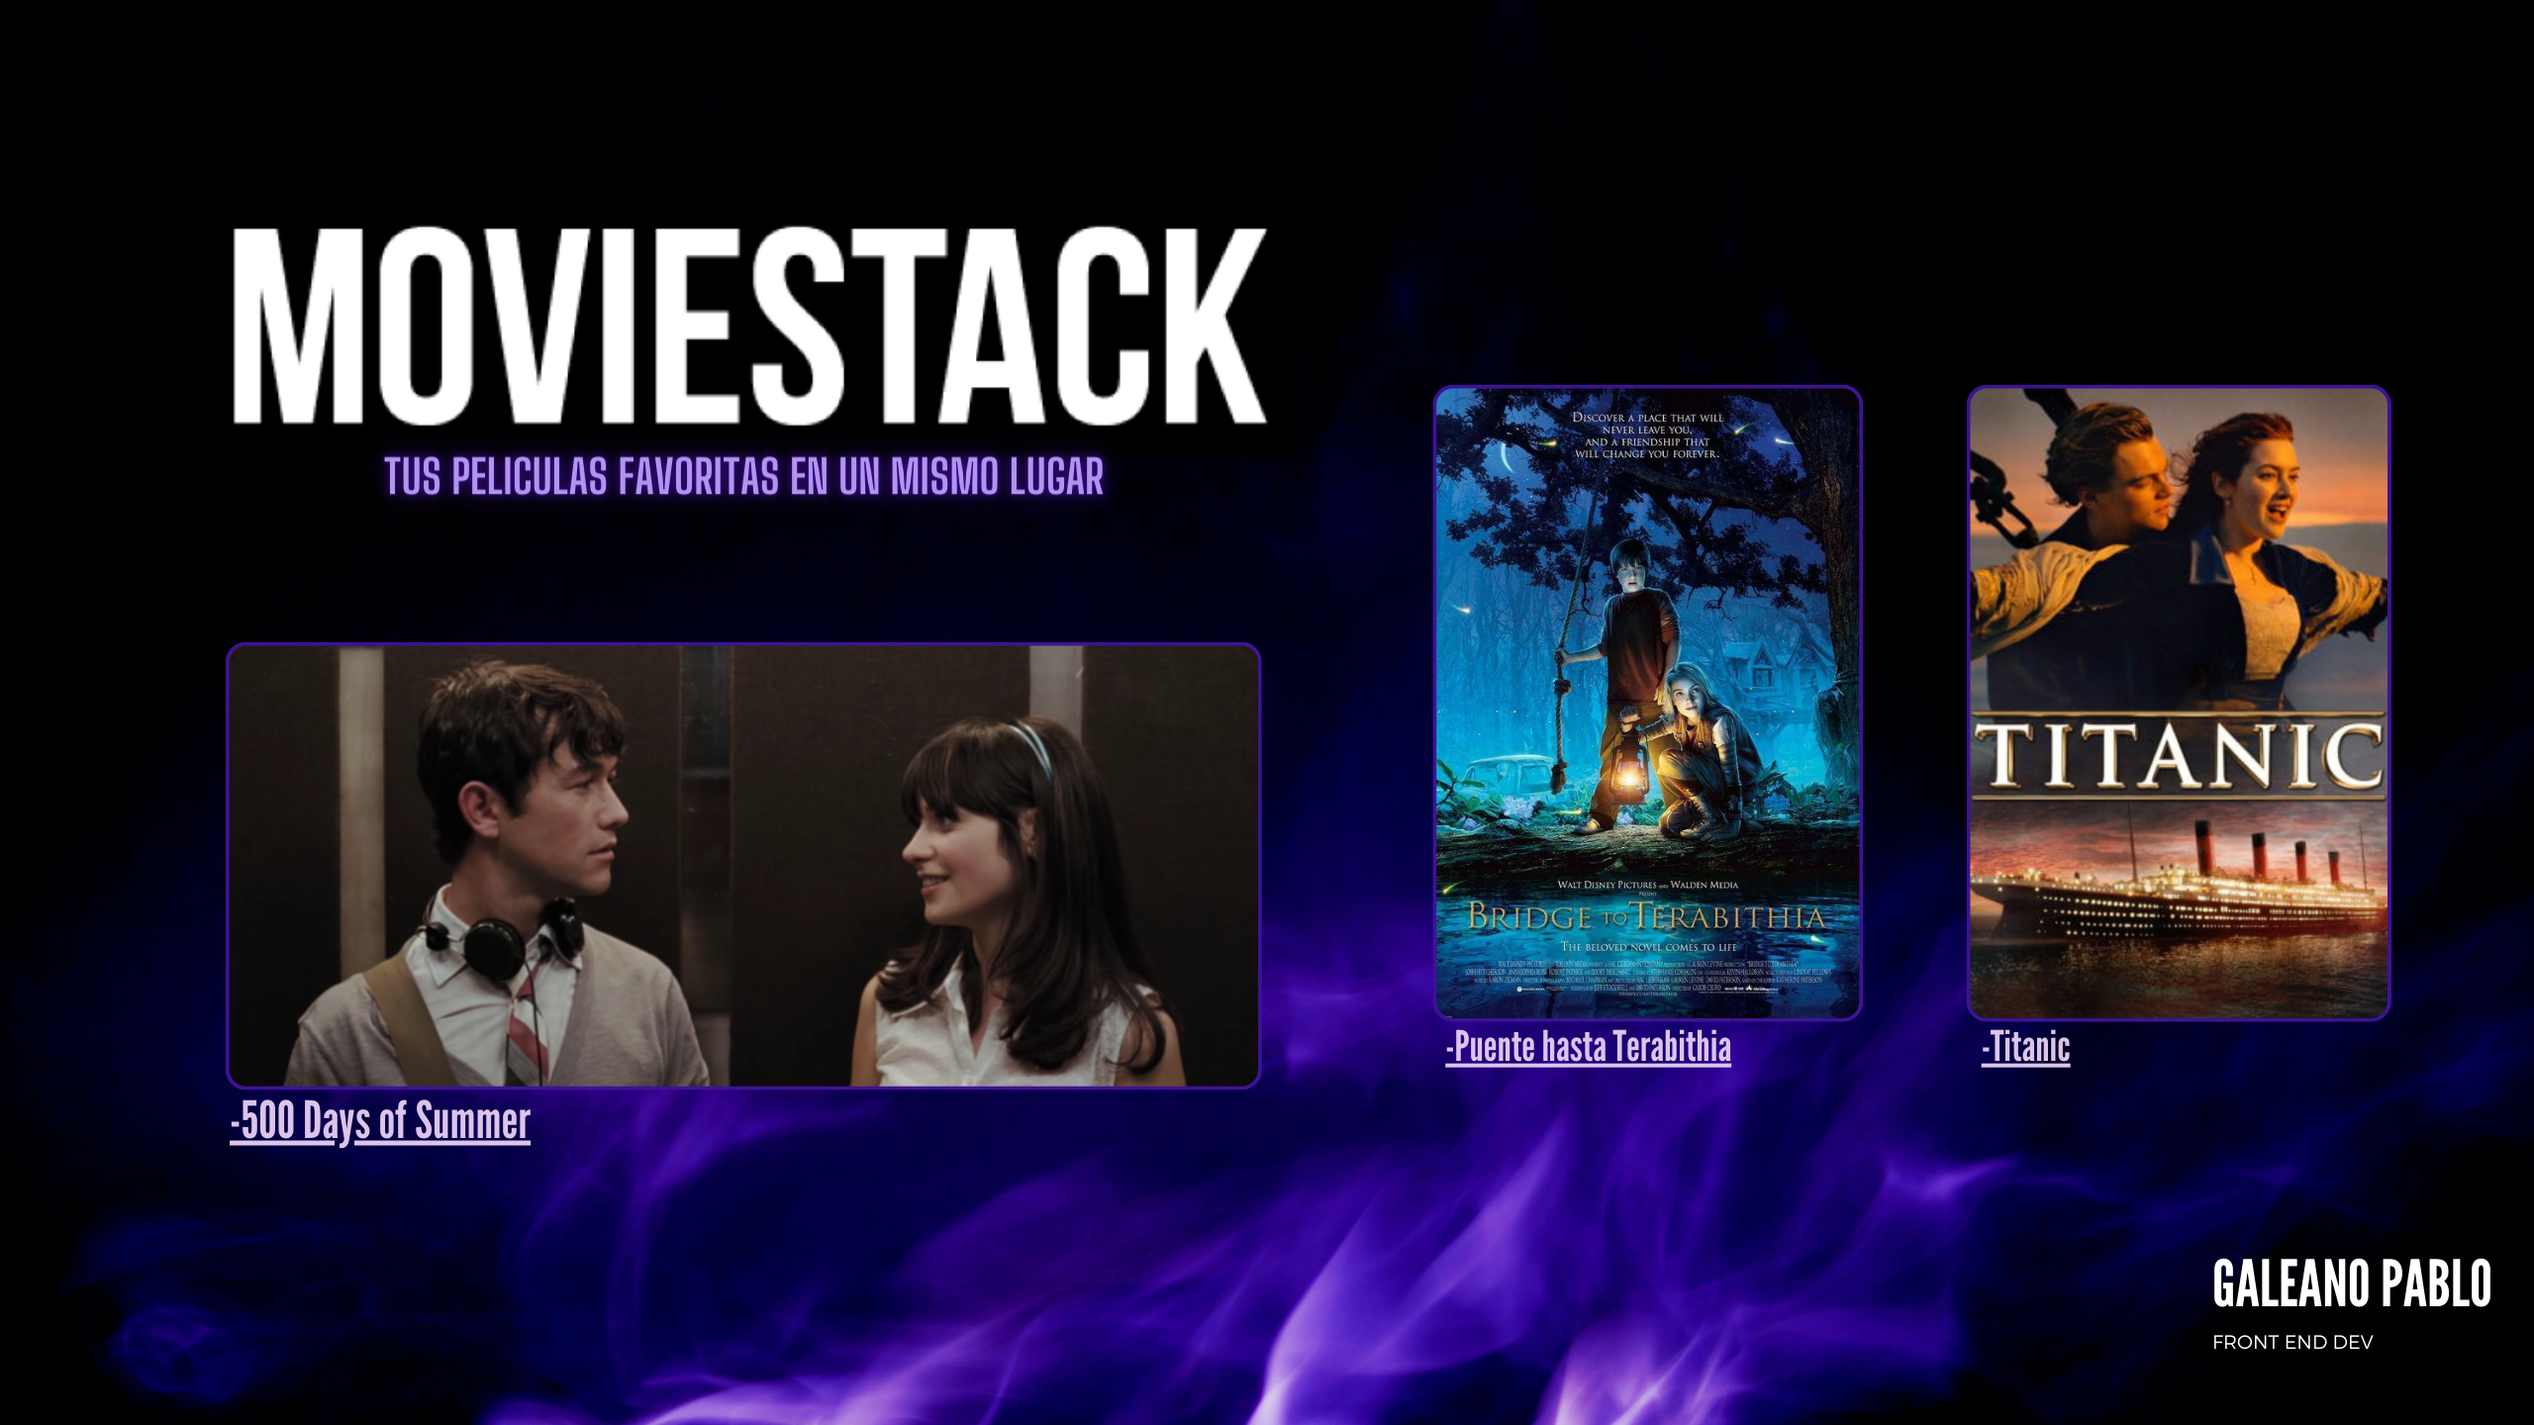
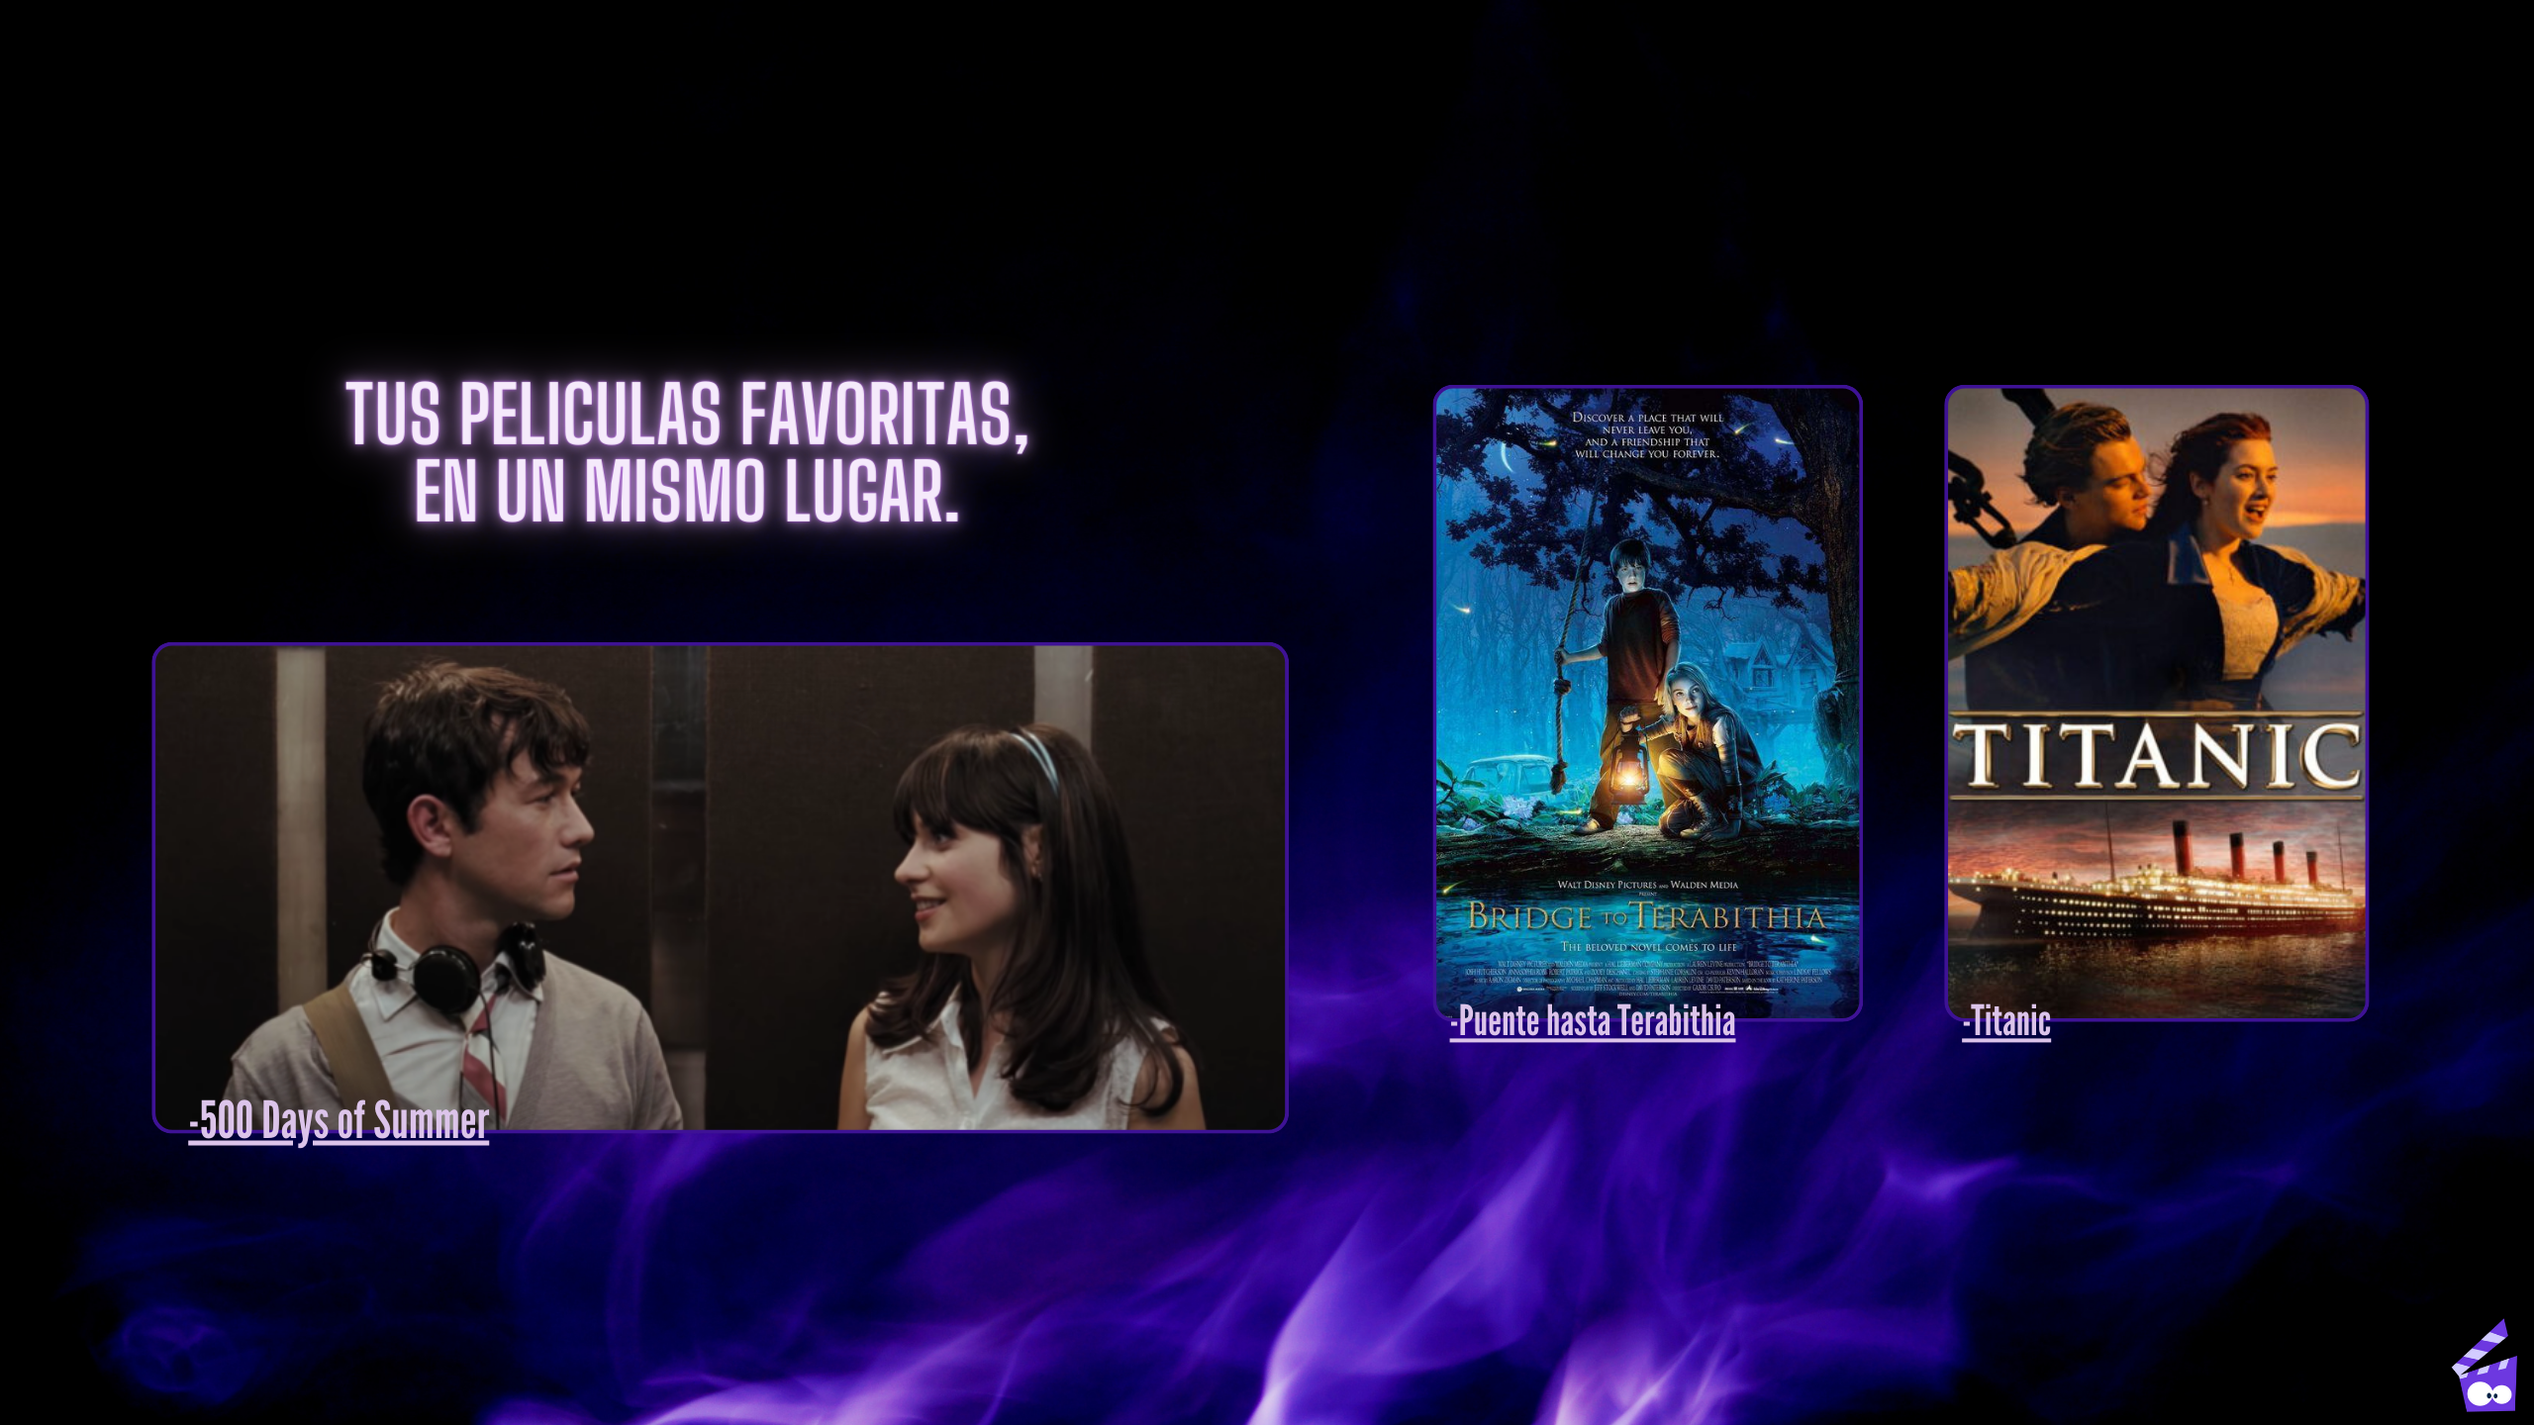
sprint 1 javascript moviestack - home y movies terminado, responsive

diff --git a/index.html b/index.html
@@ -1,5 +1,6 @@
 <!DOCTYPE html>
 <html lang="en">
+
 <head>
     <meta charset="UTF-8">
     <meta name="viewport" content="width=device-width, initial-scale=1.0">
@@ -8,41 +9,73 @@
     <link rel="shortcut icon" type="image/x-icon" href="./assets/images/Moviestack_favicon.png" />
     <title>Home</title>
 </head>
+
 <body>
-    <header class="md:fixed md:w-full bg-black h-[130px] xl:py-3">
-        <div class="md:flex md:justify-center">
-            <div class="flex w-[60%] xl:h-full">
-                <img src="./assets/images/Moviestack_isotipo.png" class="w-[80px]" alt="">
-                <img src="./assets/images/Moviestack_logotipo2.png" class="w-[500px]" alt="">
+    <header class="flex gap-5 sm:fixed w-full lg:h-[120px] sm:py-3 border-b-2 border-b-[#242424] bg-black">
+        <div class="flex flex-wrap content-center sm:w-[75%] sm:justify-center lg:justify-between m-auto">
+            <div class="flex items-center xl:h-full pr-5">
+                <a href="./index.html"><img src="./assets/images/Moviestack_isotipo.png" class="w-[80px] m-auto"
+                        alt=""></a>
+                <a href="./index.html"><img src="./assets/images/Moviestack_logotipo2.png"
+                        class="hidden sm:block w-[300px] m-auto" alt=""></a>
             </div>
-            <nav class="flex text-white items-center gap-10">
-                <a href="#">HOME</a>
-                <a href="./movies.html">MOVIES</a>
-                <a href="">FAVS</a>
+            <nav class="flex texto-blanco items-center gap-10">
+                <a href="#" class="sm:p-2 text-xl border-2 rounded-l border-[#242424] bg-[#242424] hover:p-[0.45rem]">HOME</a>
+                <a href="./movies.html" class="sm:p-2 text-xl border-2 rounded-l border-[#242424] hover:bg-[#18181e] hover:p-[0.45rem]">MOVIES</a>
+                <a href="#" class="sm:p-2 text-xl border-2 rounded-l border-[#242424] hover:bg-[#18181e] hover:p-[0.45rem]">FAVS</a>
             </nav>
         </div>
     </header>
 
     <main>
-        <div class="flex justify-center bg-black">
-            <div class="xl:w-[80%] xl:m-auto xl:px-5">
-                <img class="w-full" src="./assets/images/banner-aesthetic1.png" alt="">
-                    <p class="text-white">Lorem ipsum dolor sit amet consectetur, adipisicing elit. Impedit aspernatur, asperiores hic tenetur eligendi quasi, labore quae dolorem aperiam voluptate alias magnam nobis quisquam facilis explicabo velit ipsum expedita harum.
-                    Odio officia ex consequuntur velit aspernatur quisquam voluptates, asperiores minima? Expedita facilis totam enim? Provident fugiat maiores, reprehenderit sapiente modi eveniet facilis placeat numquam. Ratione dolores facilis illum temporibus delectus?
-                    Minus iste quia facilis dolor voluptate illo ea tempore illum asperiores! Ratione explicabo quibusdam ipsum ducimus perferendis labore atque, unde praesentium maxime error dolorem laudantium voluptates cupiditate itaque ad blanditiis.
-                    Asperiores quidem quos optio doloremque tempora maxime dolores odio corrupti deserunt doloribus, placeat eos eum recusandae! Ad molestiae impedit quisquam accusamus, tempora iusto quasi repudiandae reiciendis dicta. Animi, maxime et.
-                    Iure, voluptatibus minima debitis deleniti perspiciatis reiciendis nemo dolore quia eum, libero tempora provident dolor enim. Sit fugiat pariatur odit dignissimos, deserunt itaque, eligendi corporis quasi quos recusandae minima laudantium.
-                    Velit, vero maiores soluta quos at, ipsam ipsum distinctio aliquid, dicta molestias eaque deserunt autem iusto! Tempore mollitia ab harum eius inventore, beatae fugiat impedit et eligendi, dolore quis vero!
-                    Temporibus ipsa necessitatibus amet ratione aliquam ab maiores at est praesentium et. Eligendi, autem vel. Explicabo tempore iusto corporis, reiciendis velit voluptas ratione veritatis, omnis aperiam minus facere maiores illum!
-                    Nostrum architecto officiis sit laudantium consequuntur quo perferendis ducimus, dolores, voluptates, reiciendis quae aliquam distinctio? Ea placeat, quam ab fuga dolorum repellat recusandae molestias aliquid illo est labore, fugit sit!
-                    Voluptatibus reiciendis consequuntur delectus quod error dolorem voluptatum, atque excepturi inventore eum nisi vel modi repellendus animi aspernatur dignissimos debitis optio, tenetur explicabo iste fuga molestiae quibusdam. Similique, id ratione?
-                    Recusandae autem facilis impedit numquam reiciendis expedita ut voluptas aliquid quas, perferendis atque soluta distinctio, libero placeat? Nihil delectus repudiandae, facere natus magnam quam obcaecati excepturi incidunt, cum veniam asperiores.</p>
+        <div class="flex flex-col justify-center bg-[#09090b]">
+            <div class="bannerxl">
+                <img class="hidden xl:block w-full pt-[100px] lg:pt-[px]" src="./assets/images/bannerxl.png" alt="">
+            </div>
+            <div class="xl:w-[80%] xl:m-auto">
+                <img class="hidden  w-full pt-[100px] sm:block xl:hidden lg:pt-[20px]"
+                    src="./assets/images/banner-aesthetic.png" alt="">
+                <img class="sm:hidden" src="./assets/images/banner-mobile.png" alt="">
+                <div class="p-3 bg-[#1a1a1f] my-5">
+                    <p class="texto-blanco py-3 text-center m-auto w-[80%]">En el vasto universo del entretenimiento
+                        cinematográfico, una página web dedicada a películas emerge como un faro para los amantes del
+                        séptimo arte. Esta plataforma se erige como un santuario digital donde los cinéfilos pueden
+                        explorar un extenso catálogo de filmes que abarcan géneros, épocas y culturas. </p>
+                    <p class="texto-blanco py-4 text-center m-auto w-[80%]">Cada película es
+                        meticulosamente catalogada, proporcionando detalles que incluyen su género específico para que
+                        los usuarios puedan encontrar rápidamente lo que desean ver. Además, se ofrece una sinopsis
+                        concisa de cada película, proporcionando un vistazo intrigante a su trama y personajes
+                        principales. La fecha de lanzamiento de cada película también se presenta claramente,
+                        permitiendo a los espectadores contextualizarla en el tiempo y comprender su relevancia
+                        histórica. Asimismo, cada película cuenta con un índice de popularidad, que refleja su nivel de
+                        demanda y relevancia dentro de la comunidad de cinéfilos. Pero eso no es todo, la página también
+                        muestra tanto la valoración de la crítica como la de la audiencia, ofreciendo una visión
+                        completa de cómo ha sido recibida la película por expertos y espectadores por igual. Con estos
+                        datos detallados y una experiencia de navegación intuitiva, esta página se convierte en el
+                        destino ideal para aquellos que buscan descubrir nuevas películas y explorar el fascinante mundo
+                        del cine.</p>
+                </div>
+            </div>
+            <div class="flex flex-wrap gap-5 justify-around pb-5 px-10 sm:px-[140px]">
+                <div>
+                    <a href="./movies.html"><img class="w-[60%] md:w-[80%] m-auto hover:opacity-60 md:hover:w-[79%]"
+                            src="./assets/images/ver-catalogo.png" alt="ver catalogo"></a>
+                </div>
+                <div>
+                    <a href="#"><img class="w-[60%] md:w-[80%] m-auto hover:opacity-60 md:hover:w-[79%]" src="./assets/images/peliculas-favoritas.png"
+                            alt=""></a>
+                </div>
             </div>
         </div>
     </main>
-
+    <footer>
+        <div class="bg-black texto-blanco sm:h-[100px]">
+            <h2 class="p-10 text-center border-t-2 border-t-[#242424]">Galeano Pablo - Mindhub ©</h2>
+        </div>
+    </footer>
 
     <script src="./data.js"></script>
     <script src="./movies.js"></script>
 </body>
+
 </html>

diff --git a/movies.html b/movies.html
@@ -3,25 +3,39 @@
 <head>
     <meta charset="UTF-8">
     <meta name="viewport" content="width=device-width, initial-scale=1.0">
-    <link rel="stylesheet" href="./style.css">
+    <link rel="stylesheet" href="./assets/styles/style.css">
     <script src="https://cdn.tailwindcss.com"></script>
     <link rel="icon" sizes="16x16 32x32 48x48" type="image/png" href="./assets/Moviestack_favicon.png" />
     <title>Movies</title>
 </head>
-<body>
-    <header class="md:fixed md:w-full bg-black h-[130px] xl:py-3">
-        <div class="md:flex md:justify-center">
-            <div class="flex w-[60%] xl:h-full">
-                <img src="./assets/images/Moviestack_isotipo.png" class="w-[80px]" alt="">
-                <img src="./assets/images/Moviestack_logotipo2.png" class="w-[500px]" alt="">
+<body class="flex flex-col"><div></div>
+    <header class="flex gap-5 w-full lg:h-[120px] sm:py-3 border-b-2 border-b-[#242424] bg-black">
+        <div class="flex flex-wrap content-center sm:w-[75%] sm:justify-center lg:justify-between m-auto">
+            <div class="flex items-center xl:h-full pr-5">
+                <a href="./index.html"><img src="./assets/images/Moviestack_isotipo.png" class="w-[80px] m-auto" alt=""></a>
+                <a href="./index.html"><img src="./assets/images/Moviestack_logotipo2.png" class="hidden sm:block w-[300px] m-auto" alt=""></a>
             </div>
-            <nav class="flex text-white items-center gap-10">
-                <a href="./index.html">HOME</a>
-                <a href="#">MOVIES</a>
-                <a href="">FAVS</a>
+            <nav class="flex texto-blanco items-center gap-10">
+                <a href="./index.html" class="sm:p-2 text-xl border-2 rounded-l border-[#242424] hover:bg-[#18181e]">HOME</a>
+                <a href="#" class="sm:p-2 text-xl border-2 rounded-l border-[#242424] bg-[#242424]">MOVIES</a>
+                <a href="#" class="sm:p-2 text-xl border-2 rounded-l border-[#242424] hover:bg-[#18181e]">FAVS</a>
             </nav>
         </div>
     </header>
+    <main class="bg-[#09090b]">
+        <div>
+            <img class="opacity-80" src="./assets/images/banner-movies.png" alt="">
+        </div>
+        <div id="contenedor-main" class="flex flex-wrap gap-10 justify-center py-5">
+
+        </div>
+    </main>
+
+    <footer>
+        <div class="bg-black texto-blanco sm:h-[100px]">
+            <h2 class="px-10 py-5 text-center border-t-2 border-t-[#242424]">Galeano Pablo - Mindhub ©</h2>
+        </div>
+    </footer>
 
     <script src="./data.js"></script>
     <script src="./movies.js"></script>

diff --git a/movies.js b/movies.js
@@ -1,0 +1,36 @@
+const main = document.getElementById('contenedor-main')
+
+function crearTarjeta(pelicula) {
+    const article = document.createElement("article")
+    article.className = "flex flex-col gap-3 w-10/12 p-5 md:w-5/12 xl:w-1/5 border-solid border-4 rounded-3xl bg-[#1a1a1f] border-black text-[#dcdcdc] shadow-[0px_5px_10px_-2px_rgb(0,0,0)]"
+    
+    const img = document.createElement("img")
+    img.className = "h-52 w-auto object-fit rounded-t-xl"
+    img.setAttribute("src", pelicula.image)
+    img.setAttribute("alt",`Imagen de ${pelicula.name}`)
+
+    const h2 = document.createElement("h2")
+    h2.className = "font-bold"
+    h2.textContent = pelicula.title
+
+    const h3 = document.createElement("h3")
+    h3.className = "font-bold"
+    h3.textContent = pelicula.tagline
+
+
+    const p = document.createElement("p")
+    p.className = "line-clamp-6"
+    p.textContent = pelicula.overview
+
+    article.append(img, h2, h3, p)
+    return article
+}
+
+function imprimirTarjeta(listaPeliculas, elemento) {
+    for (const peliculaIterada of listaPeliculas) {
+        let card = crearTarjeta(peliculaIterada)
+        elemento.appendChild(card)
+    }
+}
+
+imprimirTarjeta(peliculas, main)

diff --git a/assets/styles/style.css b/assets/styles/style.css
@@ -1,0 +1,34 @@
+@import url('https://fonts.googleapis.com/css2?family=Open+Sans:wght@300;700&display=swap');
+
+*{
+    font-family: 'Open Sans', sans-serif;
+    padding: 0;
+    margin: 0;
+    box-sizing: border-box;
+    transition: .2s linear;
+}
+
+html{
+    scroll-padding-top: 9rem;
+    scroll-behavior: smooth;
+    background-color: #09090b;
+
+}
+
+html::-webkit-scrollbar{
+    width: 0.6rem;
+}
+
+html::-webkit-scrollbar-track{
+    background: transparent;
+}
+
+html::-webkit-scrollbar-thumb{
+    background-color: #252525;
+    border-radius: 5rem;
+}
+
+.texto-blanco{
+    color:#dbdbdb;
+    /* background-color: #1a1a1f; */
+}

diff --git a/data.js b/data.js
@@ -1,4 +1,4 @@
-[
+const peliculas = [
     {
       "id": "653035c2c61a4a32bd272480",
       "image": "https://moviestack.onrender.com/static/y5szbv8zju.jpg",
